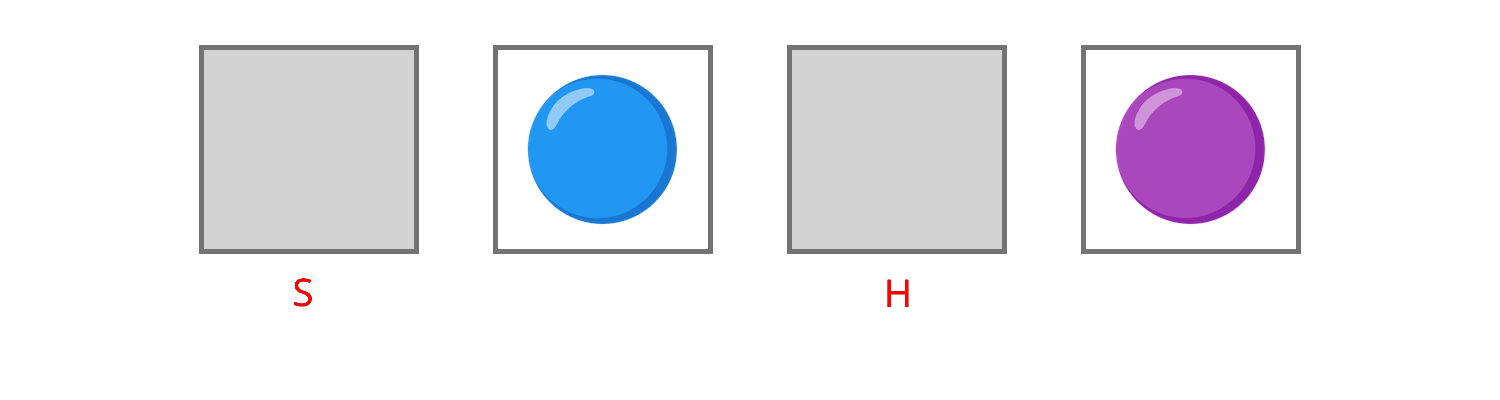
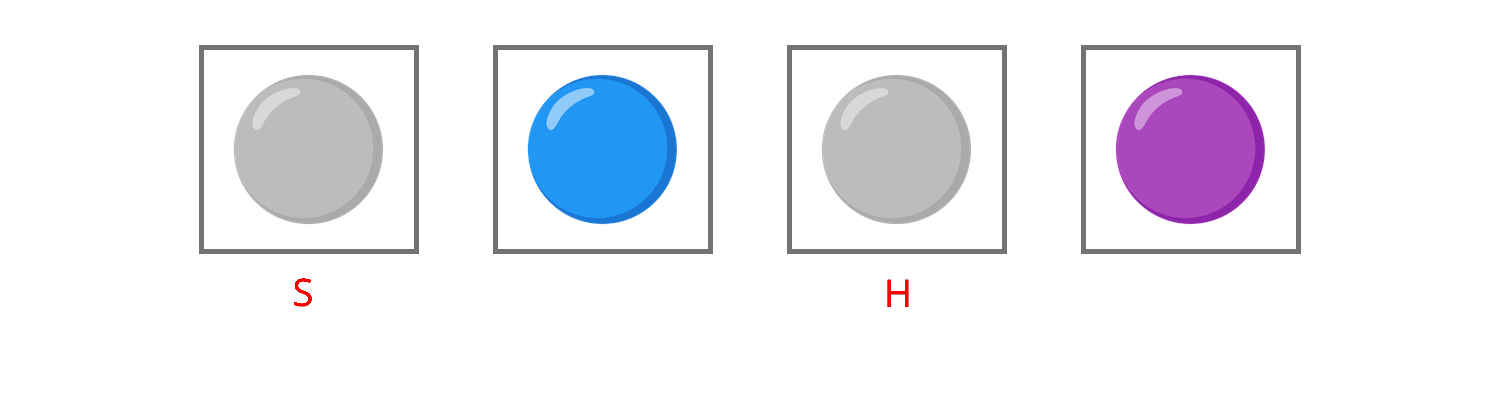
Replaced project files with updated version

Changed region(s): [[0.5213, 0.12, 0.6747, 0.63], [0.1227, 0.12, 0.276, 0.63]]

diff --git a/css/my_exp.css b/css/my_exp.css
@@ -10,7 +10,8 @@
 
     img.fullscreen {
         height: 150px;
-        width: 526px;
+        width: 100%;
+        max-width: 526px;
     }
 
     :root {
@@ -134,14 +135,21 @@
         margin-right: 5px;
     }
 
+    /* Make example images responsive */
     .exampleCircles {
-        height: 400px;
-        width: 1500px;
+        height: auto;
+        width: 100%;
+        max-width: 1200px;
+        max-height: 400px;
+        object-fit: contain;
     }
 
     .exampleTrial {
-        height: 500px;
-        width: 1500px;
+        height: auto;
+        width: 100%;
+        max-width: 1200px;
+        max-height: 500px;
+        object-fit: contain;
     }
 
     .exampleKeys {
@@ -150,64 +158,80 @@
     }
 
     .example {
-        height: 200px;
-        width: 977px;
+        height: auto;
+        width: 100%;
+        max-width: 977px;
         margin-right: 5px;
     }
 
     .exampleLoc {
-        height: 223px;
-        width: 960px;
+        height: auto;
+        width: 100%;
+        max-width: 960px;
+        max-height: 223px;
+        object-fit: contain;
     } 
 
     .exampleReward {
-        height: 400px;
-        width: 1500px;
+        height: auto;
+        width: 100%;
+        max-width: 1200px;
+        max-height: 400px;
+        object-fit: contain;
     }
 
     .exampleState {
-        height: 260px;
-        width: 780px;
+        height: auto;
+        width: 100%;
+        max-width: 780px;
+        max-height: 260px;
+        object-fit: contain;
     }
     .example_Keyboard {
-        height: 280px;
-        width: 1050px;
+        height: auto;
+        width: 100%;
+        max-width: 1050px;
+        max-height: 280px;
+        object-fit: contain;
     }
     .example_Keyboard_Practice {
-        height: 350px;
-        width: 500px;
+        height: auto;
+        width: 100%;
+        max-width: 500px;
+        max-height: 350px;
+        object-fit: contain;
     }
-    img.location_left {
-        position: fixed;
-        height: 200px;
-        width: 200px;
-        left: var(--left_location);
-        top: var(--top_location);
-    }
+img.location_left {
+    position: fixed;
+    height: 200px;
+    width: 200px;
+    left: var(--left_location);
+    top: var(--top_location);
+}
 
-    img.location_right {
-        position: fixed;
-        height: 200px;
-        width: 200px;
-        right: var(--right_location);
-        top: var(--top_location);
-    }
+img.location_right {
+    position: fixed;
+    height: 200px;
+    width: 200px;
+    right: var(--right_location);
+    top: var(--top_location);
+}
 
-    img.location_middle_left {
-        position: fixed;
-        height: 200px;
-        width: 200px;
-        left: var(--middle_left_location);
-        top: var(--top_location);
-    }
+img.location_middle_left {
+    position: fixed;
+    height: 200px;
+    width: 200px;
+    left: var(--middle_left_location);
+    top: var(--top_location);
+}
 
-    img.location_middle_right {
-        position: fixed;
-        height: 200px;
-        width: 200px;
-        right: var(--middle_right_location);
-        top: var(--top_location);
-    }
+img.location_middle_right {
+    position: fixed;
+    height: 200px;
+    width: 200px;
+    right: var(--middle_right_location);
+    top: var(--top_location);
+}
     
   /* Ensure buttons are properly spaced and styled */
   .jspsych-instructions-nav .jspsych-btn {
@@ -215,3 +239,26 @@
     padding: 8px 16px;
     font-size: 16px;
   }
+
+/* Add responsive breakpoints */
+@media (max-width: 1200px) {
+    .exampleCircles,
+    .exampleTrial,
+    .exampleReward {
+        max-width: 90vw;
+    }
+}
+
+@media (max-width: 768px) {
+    .example_Keyboard,
+    .example_Keyboard_Practice {
+        max-width: 90vw;
+    }
+}
+
+@media (max-width: 480px) {
+    .white-content {
+        padding: 10px;
+        margin: 10px;
+    }
+}

diff --git a/index.html b/index.html
@@ -147,7 +147,7 @@
 
         var background = 'images/new_background.png'
 
-        var filled_background = 'images/filled_background.png'
+        var grey_circle = 'images/test/grey.png'
 
         // Color blindness test images
         var color_blindness_image = ['images/color_blindness/1.png', 'images/color_blindness/2.png'];
@@ -197,7 +197,7 @@
         //preload
         var preload = {
             type: jsPsychPreload,
-            images: [instructions_images, keyboard_images, practice_deck, test_deck, reward_images, background, filled_background, color_blindness_image]
+            images: [instructions_images, keyboard_images, practice_deck, test_deck, reward_images, background, grey_circle, color_blindness_image]
         };
 
         timeline.push(preload)
@@ -625,7 +625,7 @@
             icon_locs[locs[0]] = icons[0];
             icon_locs[locs[1]] = icons[1];
 
-            show_icon_locs = Array(4).fill(filled_background);
+            show_icon_locs = Array(4).fill(grey_circle);
             // Use practice_deck for practice trials, test_deck for experimental trials
             var current_deck = (typeof is_practice !== 'undefined' && is_practice === 1) ? practice_deck : test_deck;
             show_icon_locs[locs[0]] = current_deck[icons[0]];
